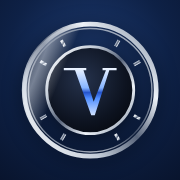
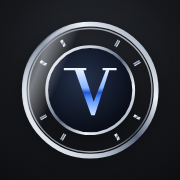
地の色を青みの少ないチャコールに変更（青は強調だけに）
Claude-Session: https://claude.ai/code/session_018qTMdpQNmRq7CfUYNf27Dw

diff --git a/index.html b/index.html
@@ -5,7 +5,7 @@
 <meta name="viewport" content="width=device-width,initial-scale=1,viewport-fit=cover">
 <title>VAULT</title>
 <meta name="description" content="売上・経費・人件費をまとめて記録し、利益がひと目で分かる経営アプリ">
-<meta name="theme-color" content="#0b1630">
+<meta name="theme-color" content="#0e1013">
 <meta name="apple-mobile-web-app-capable" content="yes">
 <meta name="mobile-web-app-capable" content="yes">
 <meta name="apple-mobile-web-app-status-bar-style" content="black-translucent">
@@ -467,15 +467,15 @@ body.obon .page,body.obon nav{visibility:hidden}
    COCKPIT テーマ：スレートの地に設計図の方眼、青い光の線だけで見せる
    ===================================================================== */
 :root{
-  --bg:#0b1630; --char:#1b1f27; --navy:#1a2233;
+  --bg:#0e1013; --char:#1b1f27; --navy:#1a2233;
   --ink:#f2f5fa; --sub:rgba(222,230,242,.74); --muted:rgba(210,220,236,.56); --faint:rgba(210,220,236,.42);
   --gold:#5b9bff; --gold-rgb:91,155,255;          /* 利益・強調（青） */
   --ice:#b3cdff; --ice-rgb:179,205,255;           /* 売上（淡い青） */
   --vio:#7f8cff; --vio-rgb:127,140,255;
   --exp:#a48bff; --exp-rgb:164,139,255; --lab:#3fc7d4; --lab-rgb:63,199,212;
   --blue:#3d7dff; --blue-rgb:61,125,255;
-  --glass:rgba(12,22,44,.8); --line:rgba(255,255,255,.07); --line2:rgba(255,255,255,.12);
-  --panel:rgba(11,20,40,.84); --grid:rgba(140,170,220,.06);
+  --glass:rgba(22,24,29,.82); --line:rgba(255,255,255,.07); --line2:rgba(255,255,255,.12);
+  --panel:rgba(22,24,29,.86); --grid:rgba(255,255,255,.035);
 }
 body{background:var(--bg)}
 
@@ -485,21 +485,21 @@ body{background:var(--bg)}
 .brand{justify-self:center;flex-direction:column;gap:4px}
 .brand svg{width:40px;height:40px;filter:drop-shadow(0 2px 6px rgba(0,0,0,.6)) drop-shadow(0 0 10px rgba(var(--blue-rgb),.18))}
 .brand b{display:block;font:600 9.5px/1 var(--disp);letter-spacing:.55em;margin-right:-.55em;background:linear-gradient(180deg,#ffffff,#b8c3d2 55%,#7d899b);-webkit-background-clip:text;background-clip:text;color:transparent}
-.iconbtn{background:rgba(12,22,44,.8);border-color:var(--line)}
+.iconbtn{background:rgba(22,24,29,.82);border-color:var(--line)}
 
 /* ---------- 設計図パネル ---------- */
-.bp{position:relative;padding:14px 16px 14px;border-radius:18px;border:1px solid rgba(140,170,220,.12);overflow:hidden;
+.bp{position:relative;padding:14px 16px 14px;border-radius:18px;border:1px solid rgba(255,255,255,.08);overflow:hidden;
   background:
     linear-gradient(var(--grid) 1px,transparent 1px) 0 0/18px 18px,
     linear-gradient(90deg,var(--grid) 1px,transparent 1px) 0 0/18px 18px,
-    linear-gradient(180deg,rgba(16,28,56,.88),rgba(9,17,36,.9));
+    linear-gradient(180deg,rgba(30,32,38,.9),rgba(18,19,23,.92));
   box-shadow:inset 0 1px 0 rgba(255,255,255,.04),0 14px 30px rgba(0,0,0,.35)}
 .bp::before{content:"";position:absolute;inset:0;pointer-events:none;background:radial-gradient(80% 60% at 70% 30%,rgba(var(--blue-rgb),.08),transparent 70%)}
 .bp>*{position:relative}
 .ptop{display:flex;align-items:flex-start;justify-content:space-between;gap:10px}
 .ptop .lab{flex-direction:column;align-items:flex-start;gap:1px}
 .ptop .lab em{font-size:11px}
-.bp .mon{background:rgba(10,13,18,.45);border-color:rgba(140,170,220,.14);backdrop-filter:none;-webkit-backdrop-filter:none;flex:none}
+.bp .mon{background:rgba(10,11,14,.45);border-color:rgba(255,255,255,.1);backdrop-filter:none;-webkit-backdrop-filter:none;flex:none}
 .bp .mon button{width:34px;height:36px}
 .bp .mon span{font:400 13px var(--num);min-width:76px;color:var(--ink)}
 .flow{display:block;width:calc(100% + 8px);height:92px;margin:4px -4px 0;overflow:visible}
@@ -508,7 +508,7 @@ body{background:var(--bg)}
 .cmp{font-size:12px}
 .info{border-color:rgba(140,170,220,.25)!important;color:var(--sub)!important}
 
-.gauges{display:grid;grid-template-columns:1.15fr 1fr 1fr;gap:12px;margin-top:14px;padding-top:12px;border-top:1px solid rgba(140,170,220,.1)}
+.gauges{display:grid;grid-template-columns:1.15fr 1fr 1fr;gap:12px;margin-top:14px;padding-top:12px;border-top:1px solid rgba(255,255,255,.07)}
 .gg{display:flex;flex-direction:column;align-items:flex-start;min-width:0;padding:0;border:0;background:none;color:inherit;text-align:left;font:inherit}
 .gt{display:flex;align-items:center;gap:5px;font-size:12px;color:var(--muted);white-space:nowrap}
 .gt svg{width:16px;height:16px;opacity:.75}
@@ -549,40 +549,40 @@ body{background:var(--bg)}
 .btn.ghost2{background:rgba(255,255,255,.04);color:var(--ink);box-shadow:none}
 .opts button[aria-pressed="true"]{background:var(--blue);border-color:var(--blue);color:#fff}
 .toast button{background:rgba(var(--blue-rgb),.18);color:#cfe0ff}
-.sheet{background:linear-gradient(180deg,#13213f,#0c162d)!important;border-color:rgba(140,170,220,.12)!important}
+.sheet{background:linear-gradient(180deg,#1e2026,#131418)!important;border-color:rgba(255,255,255,.08)!important}
 
 /* ---------- 下のメニュー：青いパネルを並べたバー ---------- */
-nav{background:linear-gradient(180deg,rgba(8,16,34,0),rgba(8,16,34,.9) 45%)}
+nav{background:linear-gradient(180deg,rgba(12,13,16,0),rgba(12,13,16,.9) 45%)}
 .dock{border-radius:18px;background:linear-gradient(180deg,rgba(40,56,92,.94),rgba(29,41,70,.96));border:1px solid rgba(140,175,235,.18);box-shadow:0 14px 34px rgba(0,0,0,.55),inset 0 1px 0 rgba(255,255,255,.06)}
-.tab{color:rgba(205,218,240,.6)}
+.tab{color:rgba(220,224,232,.58)}
 .tab+.tab,.addw+.tab{border-left:1px solid rgba(0,0,0,.25);box-shadow:-1px 0 0 rgba(255,255,255,.04)}
 .tab.on{color:#fff}
 .tab.on svg{color:#9cc4ff;filter:drop-shadow(0 0 6px rgba(var(--blue-rgb),.8))}
 .tab.on::after{background:#7fb0ff;box-shadow:0 0 8px rgba(var(--blue-rgb),.9);bottom:5px}
-.add{width:62px;height:62px;margin-top:-32px;background:conic-gradient(from 210deg,#5d9bff 0 68%,rgba(93,155,255,.14) 68% 100%);box-shadow:0 10px 26px rgba(0,0,0,.65),0 0 0 6px #1b2338,0 0 22px rgba(var(--blue-rgb),.35)}
+.add{width:62px;height:62px;margin-top:-32px;background:conic-gradient(from 210deg,#5d9bff 0 68%,rgba(93,155,255,.14) 68% 100%);box-shadow:0 10px 26px rgba(0,0,0,.65),0 0 0 6px #1a1b20,0 0 22px rgba(var(--blue-rgb),.35)}
 .add span{width:54px;height:54px;background:radial-gradient(circle at 50% 50%,#2b3446 0 46%,#151a24 47% 100%);box-shadow:inset 0 2px 6px rgba(0,0,0,.6)}
 .add svg{width:24px;height:24px;color:#fff;filter:drop-shadow(0 0 6px rgba(160,200,255,.9));transition:transform .25s cubic-bezier(.3,.7,.2,1)}
-.add-l{color:rgba(205,218,240,.75)}
+.add-l{color:rgba(220,224,232,.72)}
 body.dialon .add svg{transform:rotate(45deg)}
 
 /* ---------- 円形メニュー ---------- */
 .dial{position:fixed;inset:0;z-index:60}
-.dscrim{position:absolute;inset:0;background:rgba(5,10,24,.8);backdrop-filter:blur(4px);-webkit-backdrop-filter:blur(4px);opacity:0;transition:opacity .2s}
+.dscrim{position:absolute;inset:0;background:rgba(8,9,12,.8);backdrop-filter:blur(4px);-webkit-backdrop-filter:blur(4px);opacity:0;transition:opacity .2s}
 .dial.on .dscrim{opacity:1}
 body.dialon nav{z-index:62;background:none}
-body.dialon .dock{background:rgba(29,41,70,.35);border-color:transparent;box-shadow:none}
+body.dialon .dock{background:rgba(40,42,48,.35);border-color:transparent;box-shadow:none}
 body.dialon .tab{opacity:.25;pointer-events:none}
 .dfan{position:absolute;inset:0;z-index:63;pointer-events:none}
 .dsvg{position:absolute;left:0;top:0;opacity:0;transition:opacity .18s}
 .dial.on .dsvg{opacity:1}
-.wd{fill:rgba(30,50,90,.62);stroke:rgba(150,180,230,.16);stroke-width:1;pointer-events:auto;cursor:pointer;transition:fill .2s,transform .28s cubic-bezier(.3,1.4,.5,1)}
+.wd{fill:rgba(46,49,58,.66);stroke:rgba(255,255,255,.1);stroke-width:1;pointer-events:auto;cursor:pointer;transition:fill .2s,transform .28s cubic-bezier(.3,1.4,.5,1)}
 .wd.lit{fill:url(#dwg);stroke:rgba(150,190,255,.5)}
 .wedge-edge{fill:rgba(120,170,255,.18);pointer-events:none;transition:transform .28s cubic-bezier(.3,1.4,.5,1),fill .2s}
 .wgrp.lit .wedge-edge{fill:#7fb0ff;filter:drop-shadow(0 0 5px rgba(93,155,255,.95))}
-.dticks line{stroke:rgba(160,195,255,.35);stroke-width:1}
+.dticks line{stroke:rgba(210,218,230,.3);stroke-width:1}
 .dticks line.tb{stroke:rgba(190,215,255,.7);stroke-width:1.4}
-.dgear rect{fill:rgba(140,175,235,.32)}
-.dring{fill:none;stroke:rgba(8,14,30,.92);stroke-width:14}
+.dgear rect{fill:rgba(200,208,222,.3)}
+.dring{fill:none;stroke:rgba(12,13,16,.92);stroke-width:14}
 .dneedle path{fill:#cfe0ff;filter:drop-shadow(0 0 4px rgba(93,155,255,.9))}
 .dneedle .tip{fill:#fff;filter:drop-shadow(0 0 5px rgba(140,190,255,1))}
 .darc{fill:#5d9bff;filter:drop-shadow(0 0 6px rgba(93,155,255,.9))}
@@ -602,7 +602,7 @@ body.dialon .tab{opacity:.25;pointer-events:none}
 body.calm .dscrim,body.calm .dsvg,body.calm .dk,body.calm .dlab,body.calm .wd,body.calm .wedge-edge{transition:none}
 
 /* ---------- 起動演出・案内（クロームと青） ---------- */
-#intro{background:radial-gradient(120% 80% at 50% 40%,#16305c,#0b1630 60%,#060c1c)}
+#intro{background:radial-gradient(120% 80% at 50% 40%,#22252c,#121317 60%,#09090b)}
 #intro .em{filter:drop-shadow(0 0 24px rgba(var(--blue-rgb),.3))}
 .wm{filter:drop-shadow(0 1px 0 rgba(0,0,0,.75)) drop-shadow(0 0 12px rgba(120,170,255,.2))}
 .wm .ltr{background:linear-gradient(180deg,#ffffff 0%,#dfe6ef 30%,#9aa6b6 48%,#4a5466 53%,#a7b3c3 66%,#eef3f8 100%);-webkit-background-clip:text;background-clip:text}
@@ -611,7 +611,7 @@ body.calm .dscrim,body.calm .dsvg,body.calm .dk,body.calm .dlab,body.calm .wd,bo
 #intro .rule i:last-child{background:linear-gradient(270deg,transparent,#5d9bff)}
 #intro .rule small{color:#9cc4ff}
 #intro .skip{color:rgba(200,215,240,.3)}
-#ob{background:radial-gradient(120% 80% at 50% 0%,#1a3263 0%,#0b1630 60%)}
+#ob{background:radial-gradient(120% 80% at 50% 0%,#24262d 0%,#0e1013 60%)}
 #ob .obtop .brand{flex-direction:row}
 #ob .obtop .brand b{color:#dfe7f2;background:none;-webkit-text-fill-color:currentColor;font-size:15px;letter-spacing:.2em;margin:0}
 
@@ -622,15 +622,15 @@ body.calm .dscrim,body.calm .dsvg,body.calm .dk,body.calm .dlab,body.calm .wd,bo
    GLASS 部品：重なったガラス板・斜めの光沢・下ふちの青い光
    ===================================================================== */
 :root{
-  --gl:linear-gradient(160deg,rgba(130,165,230,.17),rgba(60,85,140,.10));
-  --gl-solid:linear-gradient(160deg,rgba(28,42,74,.94),rgba(15,24,46,.95));
+  --gl:linear-gradient(160deg,rgba(255,255,255,.08),rgba(255,255,255,.03));
+  --gl-solid:linear-gradient(160deg,rgba(34,36,42,.94),rgba(19,20,24,.95));
   --gl-sheen:linear-gradient(118deg,rgba(255,255,255,0) 0 56%,rgba(255,255,255,.05) 56.3% 100%);
-  --gl-bd:rgba(170,200,255,.30);
-  --gl-edge:linear-gradient(135deg,rgba(130,190,255,.75),rgba(120,140,255,.25) 45%,rgba(170,130,255,.6));
+  --gl-bd:rgba(215,222,235,.30);
+  --gl-edge:linear-gradient(135deg,rgba(225,232,245,.42),rgba(255,255,255,.07) 45%,rgba(175,190,225,.32));
   --gl-in:inset 0 1px 0 rgba(255,255,255,.16),inset 0 -1px 0 rgba(120,180,255,.10);
   /* 後ろに2枚重なったガラス板 */
-  --stack:5px 6px 0 -1px rgba(12,20,40,.93),5px 6px 0 0 rgba(150,185,245,.22),10px 12px 0 -1px rgba(10,17,35,.92),10px 12px 0 0 rgba(150,185,245,.13),14px 20px 30px rgba(0,0,0,.42);
-  --stack1:4px 5px 0 -1px rgba(12,20,40,.93),4px 5px 0 0 rgba(150,185,245,.22),8px 12px 22px rgba(0,0,0,.4);
+  --stack:5px 6px 0 -1px rgba(15,16,20,.93),5px 6px 0 0 rgba(205,210,222,.22),10px 12px 0 -1px rgba(15,16,20,.92),10px 12px 0 0 rgba(205,210,222,.13),14px 20px 30px rgba(0,0,0,.42);
+  --stack1:4px 5px 0 -1px rgba(15,16,20,.93),4px 5px 0 0 rgba(205,210,222,.22),8px 12px 22px rgba(0,0,0,.4);
   --glow-b:0 0 18px rgba(80,150,255,.45);
   --glow-v:0 0 16px rgba(160,120,255,.38);
 }
@@ -652,22 +652,22 @@ body.calm .dscrim,body.calm .dsvg,body.calm .dk,body.calm .dlab,body.calm .wd,bo
 /* ---------- 主なボタン（Primary） ---------- */
 .btn{position:relative;border-radius:999px;border:1px solid rgba(175,215,255,.75);color:#fff;font-weight:500;letter-spacing:.02em;text-shadow:0 0 8px rgba(160,210,255,.6);
   background:linear-gradient(180deg,rgba(255,255,255,.36),rgba(255,255,255,.04) 50%,rgba(255,255,255,0) 52%) padding-box,linear-gradient(180deg,rgba(140,195,255,.72),rgba(70,130,245,.64)) padding-box;
-  box-shadow:inset 0 1px 0 rgba(255,255,255,.55),inset 0 -2px 6px rgba(20,60,160,.35),0 0 20px rgba(80,150,255,.5),4px 5px 0 -1px rgba(14,24,48,.9),4px 5px 0 0 rgba(150,190,255,.25)}
-.btn:active{transform:translateY(1px);box-shadow:inset 0 1px 0 rgba(255,255,255,.4),0 0 12px rgba(80,150,255,.45),2px 3px 0 -1px rgba(14,24,48,.9),2px 3px 0 0 rgba(150,190,255,.25)}
-.btn:disabled{opacity:.42;box-shadow:inset 0 1px 0 rgba(255,255,255,.3),4px 5px 0 -1px rgba(14,24,48,.9),4px 5px 0 0 rgba(150,190,255,.15)}
+  box-shadow:inset 0 1px 0 rgba(255,255,255,.55),inset 0 -2px 6px rgba(20,60,160,.35),0 0 20px rgba(80,150,255,.5),4px 5px 0 -1px rgba(15,16,20,.9),4px 5px 0 0 rgba(150,190,255,.25)}
+.btn:active{transform:translateY(1px);box-shadow:inset 0 1px 0 rgba(255,255,255,.4),0 0 12px rgba(80,150,255,.45),2px 3px 0 -1px rgba(15,16,20,.9),2px 3px 0 0 rgba(150,190,255,.25)}
+.btn:disabled{opacity:.42;box-shadow:inset 0 1px 0 rgba(255,255,255,.3),4px 5px 0 -1px rgba(15,16,20,.9),4px 5px 0 0 rgba(150,190,255,.15)}
 /* 2番目のボタン（Secondary：紫のガラス） */
 .btn.ghost2{border-color:rgba(175,150,255,.6);color:#d3c6ff;text-shadow:0 0 8px rgba(170,140,255,.5);
   background:linear-gradient(180deg,rgba(255,255,255,.14),rgba(255,255,255,0) 55%) padding-box,linear-gradient(180deg,rgba(120,100,220,.24),rgba(80,60,170,.18)) padding-box;
-  box-shadow:inset 0 1px 0 rgba(255,255,255,.25),var(--glow-v),4px 5px 0 -1px rgba(14,22,46,.9),4px 5px 0 0 rgba(170,150,255,.22)}
+  box-shadow:inset 0 1px 0 rgba(255,255,255,.25),var(--glow-v),4px 5px 0 -1px rgba(15,16,20,.9),4px 5px 0 0 rgba(170,150,255,.22)}
 .btn.danger{border-color:rgba(255,160,150,.6);color:#ffd8d2;text-shadow:none;
   background:linear-gradient(180deg,rgba(255,255,255,.12),rgba(255,255,255,0) 55%) padding-box,rgba(255,110,100,.14) padding-box;
-  box-shadow:inset 0 1px 0 rgba(255,255,255,.2),0 0 14px rgba(255,120,110,.3),4px 5px 0 -1px rgba(14,22,46,.9),4px 5px 0 0 rgba(255,170,160,.2)}
+  box-shadow:inset 0 1px 0 rgba(255,255,255,.2),0 0 14px rgba(255,120,110,.3),4px 5px 0 -1px rgba(15,16,20,.9),4px 5px 0 0 rgba(255,170,160,.2)}
 
 /* ---------- 丸いアイコンボタン（Icon Button） ---------- */
 .iconbtn,.info,.pmon button,.bp .mon button{border-radius:50%}
 .iconbtn,.info{border:1px solid rgba(170,210,255,.45)!important;color:#bfe0ff!important;
   background:radial-gradient(circle at 35% 25%,rgba(255,255,255,.22),rgba(255,255,255,0) 45%),radial-gradient(circle at 50% 120%,rgba(80,150,255,.35),rgba(20,35,70,.85) 70%)!important;
-  box-shadow:inset 0 1px 0 rgba(255,255,255,.35),0 0 14px rgba(80,150,255,.4),3px 4px 0 -1px rgba(12,20,40,.9),3px 4px 0 0 rgba(150,190,255,.2)}
+  box-shadow:inset 0 1px 0 rgba(255,255,255,.35),0 0 14px rgba(80,150,255,.4),3px 4px 0 -1px rgba(15,16,20,.9),3px 4px 0 0 rgba(150,190,255,.2)}
 .iconbtn svg{filter:drop-shadow(0 0 4px rgba(140,200,255,.8))}
 .add{background:conic-gradient(from 210deg,#7fb6ff 0 68%,rgba(127,182,255,.18) 68% 100%)}
 .add span{background:radial-gradient(circle at 35% 22%,rgba(255,255,255,.28),rgba(255,255,255,0) 42%),radial-gradient(circle at 50% 120%,rgba(80,150,255,.5),#101a30 72%);box-shadow:inset 0 1px 0 rgba(255,255,255,.4),inset 0 -3px 8px rgba(0,0,0,.4)}
@@ -675,58 +675,58 @@ body.calm .dscrim,body.calm .dsvg,body.calm .dk,body.calm .dlab,body.calm .wd,bo
 
 /* ---------- 入力欄（Text Field / Select） ---------- */
 .fld input,.fld select,.ren,.prow input.pd,.prow .money input,#ob .fld input{
-  border-radius:14px!important;border:1px solid rgba(170,200,255,.28)!important;color:var(--ink);
-  background:var(--gl-sheen),linear-gradient(160deg,rgba(130,165,230,.14),rgba(40,60,110,.22))!important;
-  box-shadow:inset 0 1px 0 rgba(255,255,255,.12),inset 0 -1px 0 rgba(110,175,255,.55),0 7px 14px -10px rgba(80,150,255,.9),4px 5px 0 -1px rgba(12,20,40,.92),4px 5px 0 0 rgba(150,185,245,.2)!important;
+  border-radius:14px!important;border:1px solid rgba(215,222,235,.28)!important;color:var(--ink);
+  background:var(--gl-sheen),linear-gradient(160deg,rgba(225,230,240,.14),rgba(46,49,56,.22))!important;
+  box-shadow:inset 0 1px 0 rgba(255,255,255,.12),inset 0 -1px 0 rgba(110,175,255,.55),0 7px 14px -10px rgba(80,150,255,.9),4px 5px 0 -1px rgba(15,16,20,.92),4px 5px 0 0 rgba(205,210,222,.2)!important;
   transition:border-color .2s,box-shadow .2s}
 .fld input:focus,.fld select:focus,.ren:focus,.prow input:focus{outline:none;border-color:rgba(175,150,255,.75)!important;
-  box-shadow:inset 0 1px 0 rgba(255,255,255,.14),inset 0 -1px 0 rgba(130,185,255,.9),0 0 0 3px rgba(150,120,255,.16),0 0 16px rgba(150,120,255,.35),4px 5px 0 -1px rgba(12,20,40,.92),4px 5px 0 0 rgba(170,150,255,.3)!important}
+  box-shadow:inset 0 1px 0 rgba(255,255,255,.14),inset 0 -1px 0 rgba(130,185,255,.9),0 0 0 3px rgba(150,120,255,.16),0 0 16px rgba(150,120,255,.35),4px 5px 0 -1px rgba(15,16,20,.92),4px 5px 0 0 rgba(170,150,255,.3)!important}
 .fld input::placeholder{color:rgba(200,215,240,.38)}
 .money::before{z-index:1;color:rgba(190,215,255,.6)}
 
 /* ---------- 選択肢・タブ（Tabs / Segmented） ---------- */
-.seg,.opts.wdg{border-radius:14px;border:1px solid rgba(170,200,255,.22);background:var(--gl-sheen),rgba(30,46,80,.5);box-shadow:inset 0 1px 0 rgba(255,255,255,.08),var(--stack1)}
+.seg,.opts.wdg{border-radius:14px;border:1px solid rgba(215,222,235,.22);background:var(--gl-sheen),rgba(36,38,44,.55);box-shadow:inset 0 1px 0 rgba(255,255,255,.08),var(--stack1)}
 .seg button{position:relative;border-radius:10px}
 .seg button[aria-pressed="true"],.seg.m button[aria-pressed="true"][data-v="sales"],.seg.m button[aria-pressed="true"][data-v="profit"]{
   background:linear-gradient(180deg,rgba(255,255,255,.12),rgba(255,255,255,0) 60%),rgba(80,140,255,.18);box-shadow:inset 0 0 0 1px rgba(160,200,255,.45),0 0 14px rgba(80,150,255,.35)}
 .seg button[aria-pressed="true"]::after{content:"";position:absolute;left:24%;right:24%;bottom:3px;height:2px;border-radius:2px;background:#9cc8ff;box-shadow:0 0 8px 1px rgba(100,170,255,.9)}
-.opts button,.chips button,.storebar button,.tg,.pmon,.bp .mon{border:1px solid rgba(170,200,255,.26)!important;background:var(--gl-sheen),linear-gradient(160deg,rgba(130,165,230,.14),rgba(40,60,110,.2))!important;
-  box-shadow:inset 0 1px 0 rgba(255,255,255,.12),3px 4px 0 -1px rgba(12,20,40,.9),3px 4px 0 0 rgba(150,185,245,.16)}
+.opts button,.chips button,.storebar button,.tg,.pmon,.bp .mon{border:1px solid rgba(215,222,235,.26)!important;background:var(--gl-sheen),linear-gradient(160deg,rgba(225,230,240,.14),rgba(46,49,56,.2))!important;
+  box-shadow:inset 0 1px 0 rgba(255,255,255,.12),3px 4px 0 -1px rgba(15,16,20,.9),3px 4px 0 0 rgba(205,210,222,.16)}
 .opts button[aria-pressed="true"],.chips button[aria-pressed="true"],.storebar button[aria-pressed="true"],.tg[aria-pressed="true"]{
   color:#fff!important;border-color:rgba(175,215,255,.75)!important;text-shadow:0 0 8px rgba(160,210,255,.7);
   background:linear-gradient(180deg,rgba(255,255,255,.22),rgba(255,255,255,0) 55%),linear-gradient(180deg,rgba(110,170,255,.5),rgba(55,105,230,.42))!important;
-  box-shadow:inset 0 1px 0 rgba(255,255,255,.45),0 0 14px rgba(80,150,255,.5),3px 4px 0 -1px rgba(12,20,40,.9),3px 4px 0 0 rgba(150,190,255,.25)}
+  box-shadow:inset 0 1px 0 rgba(255,255,255,.45),0 0 14px rgba(80,150,255,.5),3px 4px 0 -1px rgba(15,16,20,.9),3px 4px 0 0 rgba(150,190,255,.25)}
 .tg.dl{color:#ffb4aa!important;border-color:rgba(255,160,150,.45)!important}
-#ob .indg button{border:1px solid rgba(170,200,255,.26);background:var(--gl-sheen),linear-gradient(160deg,rgba(130,165,230,.14),rgba(40,60,110,.2));box-shadow:inset 0 1px 0 rgba(255,255,255,.12),var(--stack1)}
+#ob .indg button{border:1px solid rgba(215,222,235,.26);background:var(--gl-sheen),linear-gradient(160deg,rgba(225,230,240,.14),rgba(46,49,56,.2));box-shadow:inset 0 1px 0 rgba(255,255,255,.12),var(--stack1)}
 #ob .indg button[aria-pressed="true"]{border-color:rgba(175,215,255,.75);background:linear-gradient(180deg,rgba(255,255,255,.16),rgba(255,255,255,0) 55%),rgba(80,140,255,.22);box-shadow:inset 0 1px 0 rgba(255,255,255,.35),0 0 16px rgba(80,150,255,.45),var(--stack1)}
 
 /* ---------- スイッチ・チェック（Switch / Checkbox） ---------- */
-.sw input{width:54px;height:32px;border:1px solid rgba(170,200,255,.25);background:linear-gradient(180deg,rgba(0,0,0,.35),rgba(40,60,100,.3));box-shadow:inset 0 2px 5px rgba(0,0,0,.5),3px 4px 0 -1px rgba(12,20,40,.9),3px 4px 0 0 rgba(150,185,245,.14)}
+.sw input{width:54px;height:32px;border:1px solid rgba(215,222,235,.25);background:linear-gradient(180deg,rgba(0,0,0,.35),rgba(55,58,66,.3));box-shadow:inset 0 2px 5px rgba(0,0,0,.5),3px 4px 0 -1px rgba(15,16,20,.9),3px 4px 0 0 rgba(205,210,222,.14)}
 .sw input::after{top:3px;left:3px;width:24px;height:24px;background:radial-gradient(circle at 35% 30%,#ffffff,#9aa8bd 75%);box-shadow:0 2px 4px rgba(0,0,0,.5)}
-.sw input:checked{border-color:rgba(175,215,255,.7);background:linear-gradient(180deg,rgba(255,255,255,.2),rgba(255,255,255,0) 55%),linear-gradient(180deg,rgba(110,170,255,.6),rgba(55,105,230,.5));box-shadow:inset 0 1px 0 rgba(255,255,255,.45),0 0 14px rgba(80,150,255,.55),3px 4px 0 -1px rgba(12,20,40,.9),3px 4px 0 0 rgba(150,190,255,.25)}
+.sw input:checked{border-color:rgba(175,215,255,.7);background:linear-gradient(180deg,rgba(255,255,255,.2),rgba(255,255,255,0) 55%),linear-gradient(180deg,rgba(110,170,255,.6),rgba(55,105,230,.5));box-shadow:inset 0 1px 0 rgba(255,255,255,.45),0 0 14px rgba(80,150,255,.55),3px 4px 0 -1px rgba(15,16,20,.9),3px 4px 0 0 rgba(150,190,255,.25)}
 .sw input:checked::after{left:25px;background:radial-gradient(circle at 35% 30%,#ffffff,#cfe4ff 70%);box-shadow:0 0 10px rgba(160,210,255,.95)}
-.ck input{-webkit-appearance:none;appearance:none;width:26px;height:26px;border-radius:8px;border:1px solid rgba(170,200,255,.35);position:relative;cursor:pointer;
-  background:var(--gl-sheen),rgba(40,60,110,.3);box-shadow:inset 0 1px 0 rgba(255,255,255,.12),3px 4px 0 -1px rgba(12,20,40,.9),3px 4px 0 0 rgba(150,185,245,.18)}
-.ck input:checked{border-color:rgba(175,215,255,.8);background:linear-gradient(180deg,rgba(255,255,255,.2),rgba(255,255,255,0) 55%),rgba(80,140,255,.4);box-shadow:inset 0 1px 0 rgba(255,255,255,.4),0 0 12px rgba(80,150,255,.6),3px 4px 0 -1px rgba(12,20,40,.9),3px 4px 0 0 rgba(150,190,255,.25)}
+.ck input{-webkit-appearance:none;appearance:none;width:26px;height:26px;border-radius:8px;border:1px solid rgba(215,222,235,.35);position:relative;cursor:pointer;
+  background:var(--gl-sheen),rgba(46,49,56,.3);box-shadow:inset 0 1px 0 rgba(255,255,255,.12),3px 4px 0 -1px rgba(15,16,20,.9),3px 4px 0 0 rgba(205,210,222,.18)}
+.ck input:checked{border-color:rgba(175,215,255,.8);background:linear-gradient(180deg,rgba(255,255,255,.2),rgba(255,255,255,0) 55%),rgba(80,140,255,.4);box-shadow:inset 0 1px 0 rgba(255,255,255,.4),0 0 12px rgba(80,150,255,.6),3px 4px 0 -1px rgba(15,16,20,.9),3px 4px 0 0 rgba(150,190,255,.25)}
 .ck input:checked::after{content:"";position:absolute;left:8px;top:3px;width:7px;height:13px;border:solid #fff;border-width:0 2.4px 2.4px 0;transform:rotate(45deg);filter:drop-shadow(0 0 3px rgba(170,215,255,1))}
 
 /* ---------- お知らせ（Toast）・確認（Modal） ---------- */
-.toast{border-radius:16px!important;border:1px solid rgba(170,200,255,.3)!important;background:var(--gl-sheen),linear-gradient(160deg,rgba(32,48,84,.96),rgba(16,26,50,.97))!important;
+.toast{border-radius:16px!important;border:1px solid rgba(215,222,235,.3)!important;background:var(--gl-sheen),linear-gradient(160deg,rgba(38,40,46,.96),rgba(21,22,27,.97))!important;
   box-shadow:inset 0 1px 0 rgba(255,255,255,.14),inset 0 -1px 0 rgba(110,175,255,.7),0 8px 18px -10px rgba(80,150,255,.9),var(--stack1)!important}
 .confirm{border-radius:16px;border:1px solid rgba(255,170,160,.4);background:var(--gl-sheen),rgba(60,30,50,.55);box-shadow:inset 0 1px 0 rgba(255,255,255,.12),var(--stack1)}
-.confirm button{border-radius:999px!important;border:1px solid rgba(170,200,255,.3)!important;background:linear-gradient(180deg,rgba(255,255,255,.12),rgba(255,255,255,0) 55%),rgba(60,90,150,.3)!important}
+.confirm button{border-radius:999px!important;border:1px solid rgba(215,222,235,.3)!important;background:linear-gradient(180deg,rgba(255,255,255,.12),rgba(255,255,255,0) 55%),rgba(70,74,84,.32)!important}
 .confirm button.d{border-color:rgba(255,170,160,.6)!important;background:linear-gradient(180deg,rgba(255,255,255,.14),rgba(255,255,255,0) 55%),rgba(255,110,100,.28)!important;box-shadow:0 0 12px rgba(255,120,110,.35)}
-.sheet{border:1px solid rgba(170,200,255,.25)!important;border-bottom:0!important;background:linear-gradient(180deg,rgba(24,38,70,.97),rgba(11,19,38,.98))!important;
+.sheet{border:1px solid rgba(215,222,235,.25)!important;border-bottom:0!important;background:linear-gradient(180deg,rgba(32,34,40,.97),rgba(17,18,22,.98))!important;
   box-shadow:inset 0 1px 0 rgba(255,255,255,.16),0 -6px 30px rgba(0,0,0,.55),0 -1px 14px rgba(80,150,255,.25)!important}
-.sh-hd button{border-radius:999px;border:1px solid rgba(170,200,255,.3)!important;background:linear-gradient(180deg,rgba(255,255,255,.12),rgba(255,255,255,0) 55%),rgba(60,90,150,.25)!important;color:#d2e4ff!important}
-.notice{border-style:solid!important;border-color:rgba(170,200,255,.3)!important;background:var(--gl-sheen),rgba(60,100,180,.14)!important;box-shadow:inset 0 1px 0 rgba(255,255,255,.1),inset 0 -1px 0 rgba(110,175,255,.6)}
-.pick{border:1px solid rgba(170,200,255,.26);background:var(--gl-sheen),linear-gradient(160deg,rgba(130,165,230,.14),rgba(40,60,110,.2));box-shadow:inset 0 1px 0 rgba(255,255,255,.12),var(--stack1)}
+.sh-hd button{border-radius:999px;border:1px solid rgba(215,222,235,.3)!important;background:linear-gradient(180deg,rgba(255,255,255,.12),rgba(255,255,255,0) 55%),rgba(70,74,84,.28)!important;color:#e4e8ef!important}
+.notice{border-style:solid!important;border-color:rgba(215,222,235,.3)!important;background:var(--gl-sheen),rgba(255,255,255,.045)!important;box-shadow:inset 0 1px 0 rgba(255,255,255,.1),inset 0 -1px 0 rgba(110,175,255,.6)}
+.pick{border:1px solid rgba(215,222,235,.26);background:var(--gl-sheen),linear-gradient(160deg,rgba(225,230,240,.14),rgba(46,49,56,.2));box-shadow:inset 0 1px 0 rgba(255,255,255,.12),var(--stack1)}
 
 /* ---------- カレンダーのマス・下のメニュー ---------- */
-.cd{border-color:rgba(170,200,255,.18);background:var(--gl-sheen),rgba(40,60,110,.18);box-shadow:inset 0 1px 0 rgba(255,255,255,.07)}
+.cd{border-color:rgba(170,200,255,.18);background:var(--gl-sheen),rgba(46,49,56,.18);box-shadow:inset 0 1px 0 rgba(255,255,255,.07)}
 .cd.today,.cd.sel{border-color:rgba(175,215,255,.75);box-shadow:inset 0 1px 0 rgba(255,255,255,.3),0 0 12px rgba(80,150,255,.5)}
-.dock{border:1px solid transparent!important;background:var(--gl-sheen) padding-box,linear-gradient(180deg,rgba(40,60,104,.95),rgba(22,34,64,.97)) padding-box,var(--gl-edge) border-box!important;
-  box-shadow:inset 0 1px 0 rgba(255,255,255,.14),5px 6px 0 -1px rgba(10,17,35,.92),5px 6px 0 0 rgba(150,185,245,.18),0 16px 34px rgba(0,0,0,.55)!important}
+.dock{border:1px solid transparent!important;background:var(--gl-sheen) padding-box,linear-gradient(180deg,rgba(40,42,48,.95),rgba(24,25,30,.97)) padding-box,var(--gl-edge) border-box!important;
+  box-shadow:inset 0 1px 0 rgba(255,255,255,.14),5px 6px 0 -1px rgba(15,16,20,.92),5px 6px 0 0 rgba(205,210,222,.18),0 16px 34px rgba(0,0,0,.55)!important}
 .tab.on::after{left:30%;right:30%;width:auto;height:2px;background:#a8d0ff;box-shadow:0 0 10px 2px rgba(90,160,255,.9)}
 
 /* =====================================================================
@@ -2102,9 +2102,9 @@ function bgBuild(){
   const c = document.createElement("canvas"); c.width = bg.width; c.height = bg.height; const x = c.getContext("2d"); x.scale(DPR, DPR); layer = c;
   // 基板の地（濃い紺から青へ）
   const g = x.createRadialGradient(BW / 2, BH * .5, 0, BW / 2, BH * .5, Math.hypot(BW, BH) * .62);
-  g.addColorStop(0, "#102447"); g.addColorStop(.55, "#0b1a37"); g.addColorStop(1, "#070f22"); x.fillStyle = g; x.fillRect(0, 0, BW, BH);
+  g.addColorStop(0, "#1a1c21"); g.addColorStop(.55, "#121317"); g.addColorStop(1, "#0b0c0e"); x.fillStyle = g; x.fillRect(0, 0, BW, BH);
   // 細かい点の方眼
-  x.fillStyle = "rgba(150,190,255,.05)"; for (let yy = 6; yy < BH; yy += 14) for (let xx = 6; xx < BW; xx += 14) x.fillRect(xx, yy, 1, 1);
+  x.fillStyle = "rgba(255,255,255,.035)"; for (let yy = 6; yy < BH; yy += 14) for (let xx = 6; xx < BW; xx += 14) x.fillRect(xx, yy, 1, 1);
   // 中央のチップ
   const cx = BW / 2, cy = BH * .5, h = Math.max(30, Math.min(BW, BH) * .1), sp = Math.max(4.2, Math.min(6.5, Math.min(BW, BH) / 70));
   const occ = new Set(), cell = 10, mark = (px, py) => occ.add(((px / cell) | 0) + "," + ((py / cell) | 0));
@@ -2138,28 +2138,28 @@ function bgBuild(){
   for (const t of traces) { t.seg = []; t.len = 0;
     for (let i = 1; i < t.P.length; i++) { const [a1, b1] = t.P[i - 1], [a2, b2] = t.P[i], l = Math.hypot(a2 - a1, b2 - b1); t.seg.push(l); t.len += l;
       for (let s = 0; s < l; s += cell * .7) mark(a1 + (a2 - a1) * s / l, b1 + (b2 - b1) * s / l); }
-    x.strokeStyle = "rgba(150,195,255,.17)"; x.lineWidth = 1; x.beginPath(); t.P.forEach(([px, py], i) => i ? x.lineTo(px, py) : x.moveTo(px, py)); x.stroke();
-    if (t.end) { const [ex, ey] = t.P[t.P.length - 1]; if (ex > 0 && ex < BW && ey > 0 && ey < BH) { x.strokeStyle = "rgba(170,205,255,.22)"; x.beginPath(); x.arc(ex, ey, 2.4, 0, 7); x.stroke(); } } }
+    x.strokeStyle = "rgba(205,212,225,.17)"; x.lineWidth = 1; x.beginPath(); t.P.forEach(([px, py], i) => i ? x.lineTo(px, py) : x.moveTo(px, py)); x.stroke();
+    if (t.end) { const [ex, ey] = t.P[t.P.length - 1]; if (ex > 0 && ex < BW && ey > 0 && ey < BH) { x.strokeStyle = "rgba(215,222,235,.22)"; x.beginPath(); x.arc(ex, ey, 2.4, 0, 7); x.stroke(); } } }
   // 部品（空いている場所にだけ置く）
   const free = (px, py, w, hh) => { for (let yy = py; yy < py + hh; yy += cell) for (let xx = px; xx < px + w; xx += cell) if (occ.has(((xx / cell) | 0) + "," + ((yy / cell) | 0))) return false; return true; };
   for (let n = 0; n < BW * BH / 2600; n++) { const t = rnd(), px = rnd() * BW, py = rnd() * BH;
     if (Math.abs(px - cx) < h * 1.6 && Math.abs(py - cy) < h * 1.6) continue;
     const w = t < .5 ? 10 + rnd() * 26 : 6 + rnd() * 8, hh = t < .5 ? 8 + rnd() * 18 : 4 + rnd() * 5; if (!free(px, py, w, hh)) continue;
     for (let yy = py; yy < py + hh; yy += cell) for (let xx = px; xx < px + w; xx += cell) mark(xx, yy);
-    x.strokeStyle = "rgba(150,195,255,.10)"; x.lineWidth = 1;
-    if (t < .5) { x.fillStyle = "rgba(8,18,40,.55)"; x.fillRect(px, py, w, hh); x.strokeRect(px + .5, py + .5, w, hh);
-      x.fillStyle = "rgba(150,195,255,.11)"; for (let q = px + 3; q < px + w - 1; q += 3.5) { x.fillRect(q, py - 2, 1.2, 2); x.fillRect(q, py + hh + 1, 1.2, 2); } }
-    else if (t < .8) { x.fillStyle = "rgba(150,195,255,.08)"; x.fillRect(px, py, w * .3, hh); x.fillRect(px + w * .7, py, w * .3, hh); }
+    x.strokeStyle = "rgba(205,212,225,.10)"; x.lineWidth = 1;
+    if (t < .5) { x.fillStyle = "rgba(10,11,14,.55)"; x.fillRect(px, py, w, hh); x.strokeRect(px + .5, py + .5, w, hh);
+      x.fillStyle = "rgba(205,212,225,.11)"; for (let q = px + 3; q < px + w - 1; q += 3.5) { x.fillRect(q, py - 2, 1.2, 2); x.fillRect(q, py + hh + 1, 1.2, 2); } }
+    else if (t < .8) { x.fillStyle = "rgba(205,212,225,.08)"; x.fillRect(px, py, w * .3, hh); x.fillRect(px + w * .7, py, w * .3, hh); }
     else { x.beginPath(); x.arc(px, py, 2 + rnd() * 3, 0, 7); x.stroke(); } }
   // チップ本体
-  x.save(); x.shadowColor = "rgba(0,0,0,.7)"; x.shadowBlur = 18; x.fillStyle = "#0a1020"; x.fillRect(cx - h, cy - h, h * 2, h * 2); x.restore();
-  x.strokeStyle = "rgba(170,205,255,.3)"; x.lineWidth = 1.2; x.strokeRect(cx - h + .5, cy - h + .5, h * 2 - 1, h * 2 - 1);
-  x.fillStyle = "rgba(190,215,255,.28)"; for (let q = -h + 4; q < h - 3; q += 3) { x.fillRect(cx + q, cy - h - 3, 1.2, 3); x.fillRect(cx + q, cy + h, 1.2, 3); x.fillRect(cx - h - 3, cy + q, 3, 1.2); x.fillRect(cx + h, cy + q, 3, 1.2); }
-  const d = h * .52; x.fillStyle = "rgba(200,220,255,.08)"; x.fillRect(cx - d, cy - d, d * 2, d * 2);
-  x.fillStyle = "rgba(220,235,255,.26)"; for (let q = -d + 2; q < d - 1; q += 3.2) for (let r = -d + 2; r < d - 1; r += 3.2) x.fillRect(cx + q, cy + r, 1.4, 1.4);
-  x.fillStyle = "rgba(220,235,255,.35)"; [[-1, -1], [1, -1], [-1, 1], [1, 1]].forEach(([a, b]) => { x.beginPath(); x.arc(cx + a * (h - 5), cy + b * (h - 5), 1.4, 0, 7); x.fill(); });
+  x.save(); x.shadowColor = "rgba(0,0,0,.7)"; x.shadowBlur = 18; x.fillStyle = "#0d0e11"; x.fillRect(cx - h, cy - h, h * 2, h * 2); x.restore();
+  x.strokeStyle = "rgba(215,222,235,.3)"; x.lineWidth = 1.2; x.strokeRect(cx - h + .5, cy - h + .5, h * 2 - 1, h * 2 - 1);
+  x.fillStyle = "rgba(220,226,236,.28)"; for (let q = -h + 4; q < h - 3; q += 3) { x.fillRect(cx + q, cy - h - 3, 1.2, 3); x.fillRect(cx + q, cy + h, 1.2, 3); x.fillRect(cx - h - 3, cy + q, 3, 1.2); x.fillRect(cx + h, cy + q, 3, 1.2); }
+  const d = h * .52; x.fillStyle = "rgba(225,230,240,.08)"; x.fillRect(cx - d, cy - d, d * 2, d * 2);
+  x.fillStyle = "rgba(230,234,242,.26)"; for (let q = -d + 2; q < d - 1; q += 3.2) for (let r = -d + 2; r < d - 1; r += 3.2) x.fillRect(cx + q, cy + r, 1.4, 1.4);
+  x.fillStyle = "rgba(230,234,242,.35)"; [[-1, -1], [1, -1], [-1, 1], [1, 1]].forEach(([a, b]) => { x.beginPath(); x.arc(cx + a * (h - 5), cy + b * (h - 5), 1.4, 0, 7); x.fill(); });
   // 周辺を少し暗く（文字を読みやすく）
-  const vg = x.createRadialGradient(BW / 2, BH / 2, Math.min(BW, BH) * .25, BW / 2, BH / 2, Math.hypot(BW, BH) * .6); vg.addColorStop(0, "rgba(0,0,0,0)"); vg.addColorStop(1, "rgba(2,6,16,.65)"); x.fillStyle = vg; x.fillRect(0, 0, BW, BH);
+  const vg = x.createRadialGradient(BW / 2, BH / 2, Math.min(BW, BH) * .25, BW / 2, BH / 2, Math.hypot(BW, BH) * .6); vg.addColorStop(0, "rgba(0,0,0,0)"); vg.addColorStop(1, "rgba(4,4,6,.65)"); x.fillStyle = vg; x.fillRect(0, 0, BW, BH);
   for (let i = 0; i < 8; i++) spawn(rnd());
 }
 // 配線の上の位置（先頭からの距離 s）

diff --git a/sw.js b/sw.js
@@ -1,5 +1,5 @@
 /* VAULT：電波がなくても開けるようにするための仕組み（データはここでは扱いません） */
-const CACHE = "vault-1.2.0";
+const CACHE = "vault-1.2.1";
 const CORE = ["./", "./index.html", "./manifest.webmanifest", "./icon-180.png", "./icon-192.png", "./icon-512.png"];
 self.addEventListener("install", e => { e.waitUntil(caches.open(CACHE).then(c => c.addAll(CORE)).then(() => self.skipWaiting())); });
 self.addEventListener("activate", e => { e.waitUntil(caches.keys().then(ks => Promise.all(ks.filter(k => k !== CACHE).map(k => caches.delete(k)))).then(() => self.clients.claim())); });
